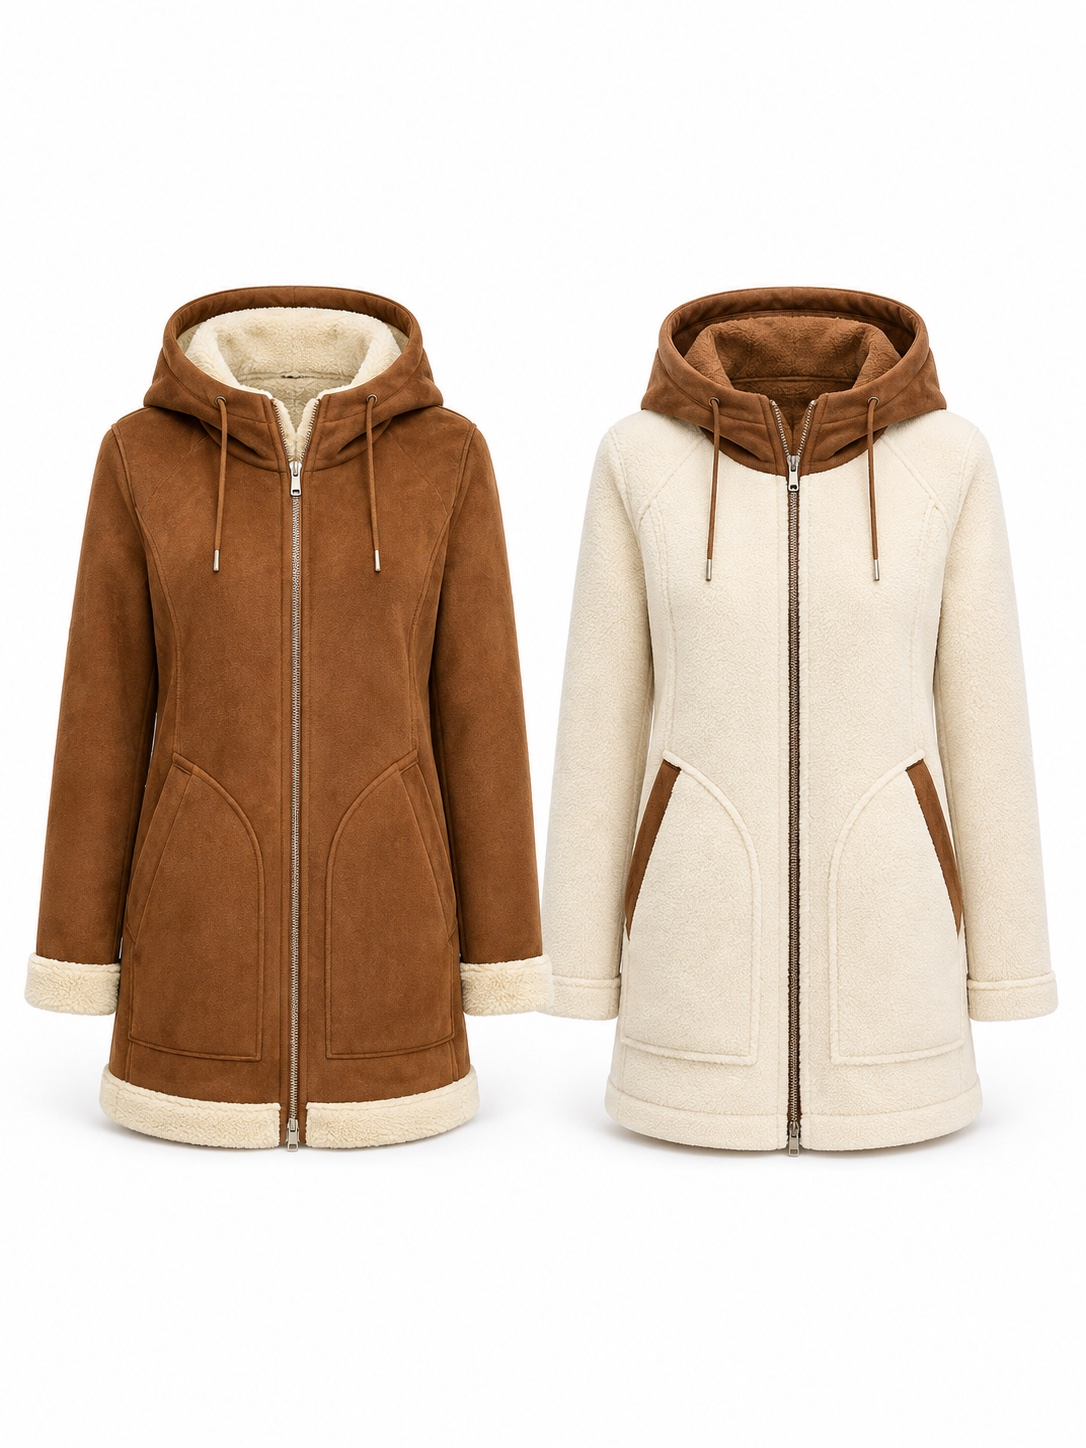
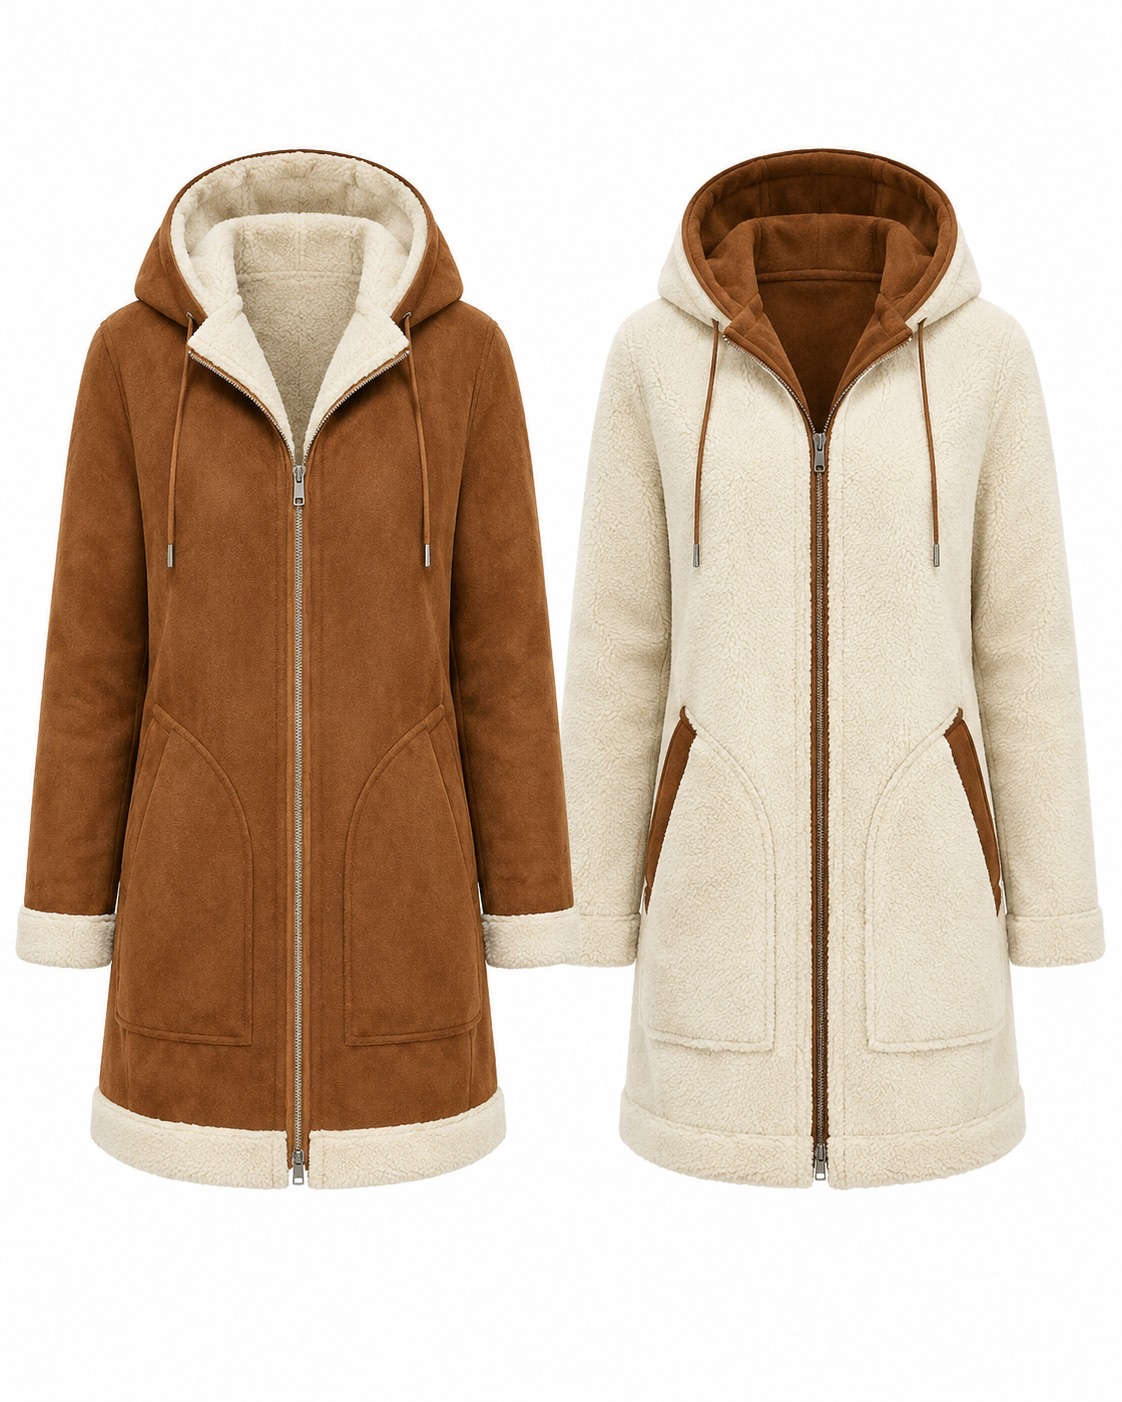
Reemplaza foto Camel de Vetralia

Changed region(s): [[0.0, 0.092, 1.0, 0.8588]]

diff --git a/script.js b/script.js
@@ -1354,7 +1354,7 @@ Object.entries(winterImageAdditionsByProductId).forEach(([productId, photoNumber
   ])].sort((a, b) => a - b);
 });
 
-const IMAGE_ASSET_VERSION = "20260813-31";
+const IMAGE_ASSET_VERSION = "20260813-32";
 
 const PRODUCTION_2027_IMAGE_SOURCE_BY_PRODUCT_ID = {
   118: 48,  // Merano
